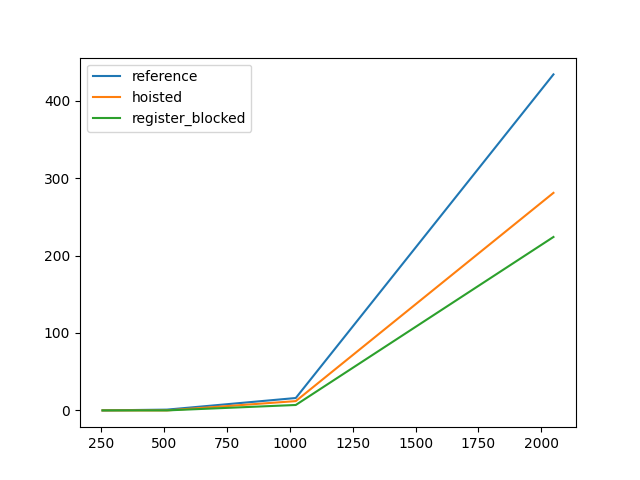
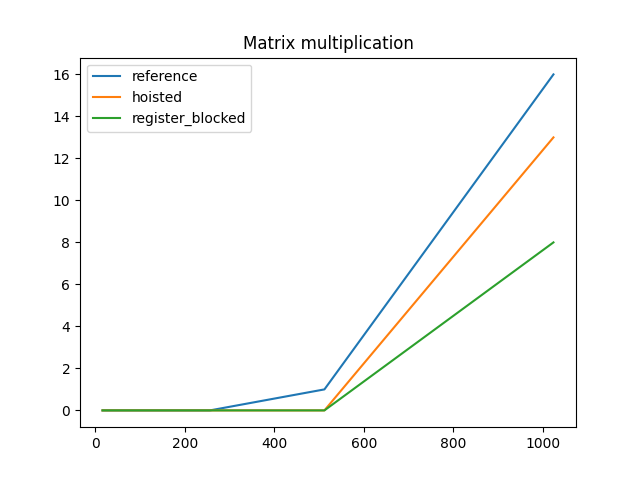
Matrix multiplication test

diff --git a/2_matrix/Matrix.hpp b/2_matrix/Matrix.hpp
@@ -1,6 +1,8 @@
 #ifndef CPP_HPC_MATRIX
 #define CPP_HPC_MATRIX
 
+#include "../1_vector/Vector.hpp"
+
 #include <stdexcept>
 #include <vector>
 
@@ -27,7 +29,7 @@ template <class T> class Matrix {
 };
 
 template <class T>
-Matrix<T> reference_matmul(const Matrix<T> &a, const Matrix<T> &b) {
+void reference_matmul(const Matrix<T> &a, const Matrix<T> &b, Matrix<T>& c) {
    if (a.num_cols() != b.num_rows()) {
       throw std::runtime_error(
           "Reference matrix multiplication dimension mismatch.");
@@ -35,7 +37,6 @@ Matrix<T> reference_matmul(const Matrix<T> &a, const Matrix<T> &b) {
    size_t M = a.num_rows();
    size_t N = b.num_cols();
    size_t K = a.num_cols();
-   Matrix<T> c(M, N, T(0));
    for (size_t i = 0; i < M; i++) {
       for (size_t j = 0; j < N; j++) {
          for (size_t k = 0; k < K; k++) {
@@ -43,19 +44,17 @@ Matrix<T> reference_matmul(const Matrix<T> &a, const Matrix<T> &b) {
          }
       }
    }
-   return c;
 }
 
 template <class T>
-Matrix<T> hoisted_matmul(const Matrix<T> &a, const Matrix<T> &b) {
+void hoisted_matmul(const Matrix<T> &a, const Matrix<T> &b, Matrix<T>& c) {
    if (a.num_cols() != b.num_rows()) {
       throw std::runtime_error(
-          "Reference matrix multiplication dimension mismatch.");
+          "Matrix multiplication dimension mismatch.");
    }
    size_t M = a.num_rows();
    size_t N = b.num_cols();
    size_t K = a.num_cols();
-   Matrix<T> c(M, N, T(0));
    for (size_t i = 0; i < M; i++) {
       for (size_t j = 0; j < N; j++) {
          T s = T(0);
@@ -65,19 +64,17 @@ Matrix<T> hoisted_matmul(const Matrix<T> &a, const Matrix<T> &b) {
          c(i, j) = s;
       }
    }
-   return c;
 }
 
 template <class T>
-Matrix<T> blocked_matmul(const Matrix<T> &a, const Matrix<T> &b) {
+void blocked_matmul(const Matrix<T> &a, const Matrix<T> &b, Matrix<T>& c) {
    if (a.num_cols() != b.num_rows()) {
       throw std::runtime_error(
-          "Reference matrix multiplication dimension mismatch.");
+          "Matrix multiplication dimension mismatch.");
    }
    size_t M = a.num_rows();
    size_t N = b.num_cols();
    size_t K = a.num_cols();
-   Matrix<T> c(M, N, T(0));
    for (size_t i = 0; i < M; i += 2) {
       for (size_t j = 0; j < N; j += 2) {
          T s00 = c(i, j);
@@ -96,7 +93,21 @@ Matrix<T> blocked_matmul(const Matrix<T> &a, const Matrix<T> &b) {
          c(i + 1, j + 1) = s11;
       }
    }
-   return c;
+}
+
+template<class T>
+void reference_matvecmul(const Matrix<T>& a, const Vector<T>& b, Vector<T>& c) {
+   if (a.num_cols() != b.num_rows()) {
+      throw
+         std::runtime_error("Matrix vector multiplication dimension mismatch.");
+   }
+   size_t M = a.num_rows();
+   size_t N = a.num_cols();
+   for (size_t i = 0; i < M; i++) {
+      for (size_t j = 0; j < N; j++) {
+         c(i) += a(i, j) * b(j);
+      }
+   }
 }
 
 #endif

diff --git a/2_matrix/TestMatrix.cpp b/2_matrix/TestMatrix.cpp
@@ -13,17 +13,17 @@ int main() {
    file << "size;reference;hoisted;register_blocked\n";
 
    using mat = Matrix<double>;
-   auto sizes = {256, 512, 1024, 2048};
-   for (size_t N : sizes) {
+   for (size_t N = 16; N <= 1024; N*=2) {
       std::cout << "Matmul for size = " << N << std::endl;
       mat a(N, N, 1.);
       mat b(N, N, 1.);
+      mat c(N, N, 1.);
       auto c1 = std::chrono::high_resolution_clock::now();
-      mat c = reference_matmul(a, b);
+      reference_matmul(a, b, c);
       auto c2 = std::chrono::high_resolution_clock::now();
-      mat d = hoisted_matmul(a, b);
+      hoisted_matmul(a, b, c);
       auto c3 = std::chrono::high_resolution_clock::now();
-      mat e = blocked_matmul(a, b);
+      blocked_matmul(a, b, c);
       auto c4 = std::chrono::high_resolution_clock::now();
       auto d1 =
           std::chrono::duration_cast<std::chrono::seconds>(c2 - c1).count();

diff --git a/2_matrix/plot.py b/2_matrix/plot.py
@@ -6,6 +6,7 @@ data = pd.read_csv("bench.csv", sep = ";")
 plt.plot(data["size"], data["reference"], label = "reference")
 plt.plot(data["size"], data["hoisted"], label = "hoisted")
 plt.plot(data["size"], data["register_blocked"], label = "register_blocked")
+plt.title("Matrix multiplication")
 plt.legend()
 plt.savefig("bench.png")
 
